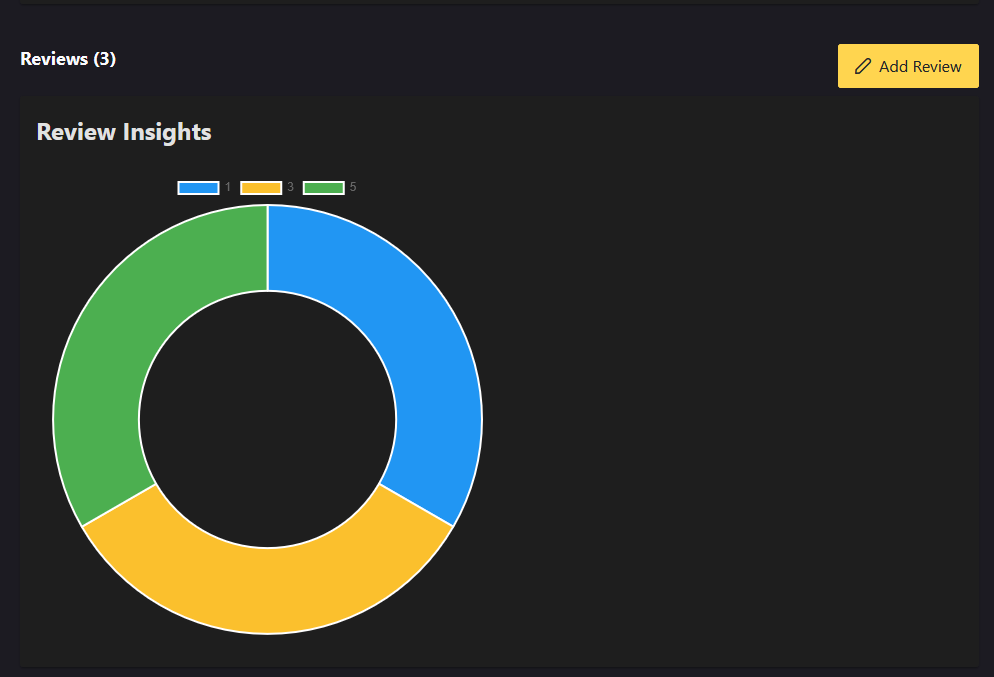
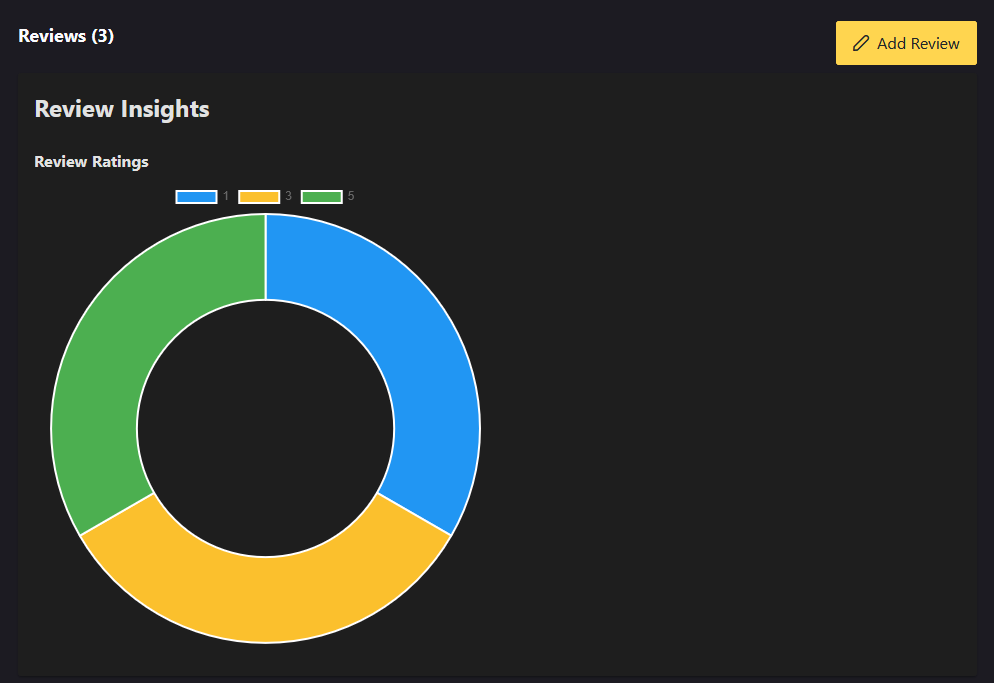
Adds header to chart and updates chart image

diff --git a/ui/src/app/pages/ProductDetailPage.tsx b/ui/src/app/pages/ProductDetailPage.tsx
@@ -167,15 +167,13 @@ export default function ProductDetailPage() {
 
                                 <section id="review-insights" className="mb-4">
                                     <Card title="Review Insights">
-                                        {/*<Chart
-                                            type="pie"
-                                            data={chartData}
-                                            options={chartOptions}
-                                            className="w-full md:w-30rem"/>*/}
-                                        <Chart type="doughnut"
-                                               data={chartData}
-                                               options={chartOptions}
-                                               className="w-1/2 md:w-15rem"/>
+                                        <section>
+                                            <h3 className="text-1xl font-bold mb-2">Review Ratings</h3>
+                                            <Chart type="doughnut"
+                                                   data={chartData}
+                                                   options={chartOptions}
+                                                   className="w-1/2 md:w-15rem"/>
+                                        </section>
                                     </Card>
                                 </section>
 
